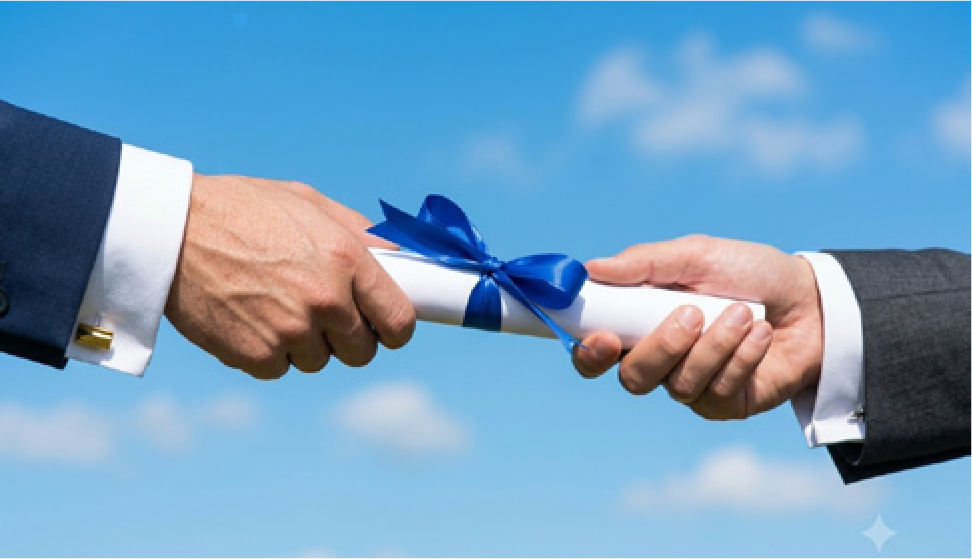
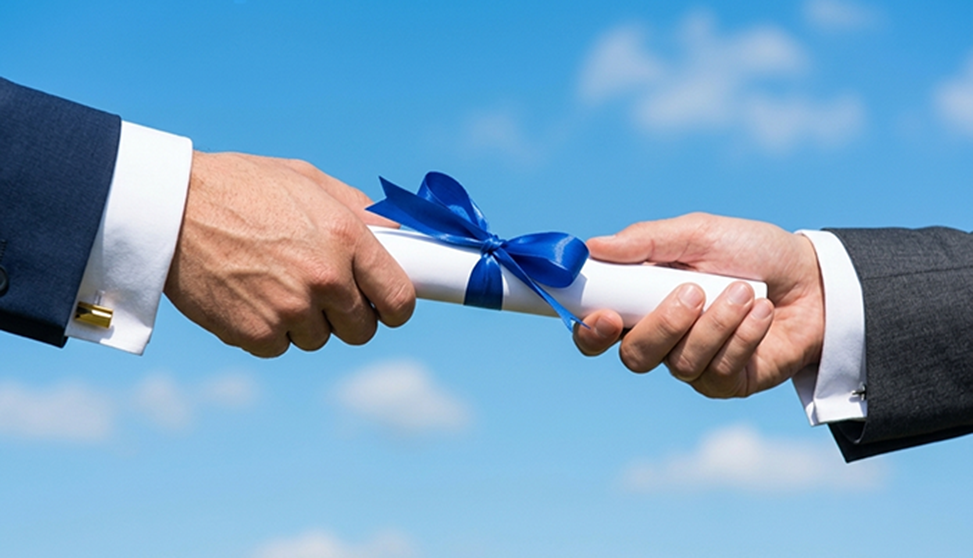
Update interview fonts and mobile sizes, newsletter links and layout
- board/interview: HsBombaram21 title font, larger body text
- board/news, on, replay: mobile layout and font-size adjustments
- newsletter: add button/footer links, keep WITH/NOTICE 2-column on mobile, use min-height instead of clipped fixed height

diff --git a/newsletter/newsletter.html b/newsletter/newsletter.html
@@ -16,6 +16,10 @@
       .col-r { padding-top: 24px !important; border-left: 0 !important }
       .mobile-footer, .mobile-footer td { display: block !important; width: 100% !important; text-align: left !important }
       .mobile-footer td { padding: 0 0 12px !important }
+      .with-notice-row > td { display: table-cell !important; width: 50% !important; vertical-align: top !important }
+      .with-notice-row .col-l { padding: 24px 10px 30px 0 !important }
+      .with-notice-row .col-r { padding: 24px 0 30px 10px !important; border-left: 1px solid #161616 !important }
+      .with-notice-desc { min-height: 80px !important }
     }
   </style>
 </head>
@@ -43,8 +47,10 @@
           <tr>
             <td class="mobile-pad" bgcolor="#ffffff" style="padding:28px 35px 40px;background:#ffffff;">
               <p style="margin:0 0 14px;"><img src="assets/letter-title-1.png" width="144" alt="3·1 PEOPLE" style="display:block;width:144px;height:auto;border:0;"></p>
-              <h1 style="margin:0 0 12px;color:#161616;font-family:'Pretendard Variable',Pretendard,'Apple SD Gothic Neo','Malgun Gothic',Arial,sans-serif;font-size:20px;font-weight:800;line-height:1.4;letter-spacing:-1px;">제67회 3·1문화상 예술상 수상자 김성녀 | 동국대학교 석좌교수</h1>
-              <p style="margin:0;color:#333333;font-size:12px;line-height:20px;letter-spacing:-.4px;">50년간 무대를 지켜온 배우 김성녀. 마당놀이와 창극을 통해 전통을 오늘의 예술로 되살리고, 자신만의 새로운 장르를 만들어온 그의 예술 여정을 만난다. 전통은 어떻게 살아 움직이는 예술이 되는가. 그리고 한 예술가가 다음 세대에 남기고 싶은 것은 무엇인가. 제67회 3·1문화상 예술상 수상자 김성녀의 이야기를 들어본다. <a href="#" style="color:#2f80ed;text-decoration:none;white-space:nowrap;">…더보기</a></p>
+              <a href="#" style="display:block;color:#333333;text-decoration:none;">
+                <h1 style="margin:0 0 12px;color:#161616;font-family:'Pretendard Variable',Pretendard,'Apple SD Gothic Neo','Malgun Gothic',Arial,sans-serif;font-size:20px;font-weight:800;line-height:1.4;letter-spacing:-1px;">제67회 3·1문화상 예술상 수상자 김성녀 | 동국대학교 석좌교수</h1>
+                <span style="display:block;margin:0;font-size:12px;line-height:20px;letter-spacing:-.4px;">50년간 무대를 지켜온 배우 김성녀. 마당놀이와 창극을 통해 전통을 오늘의 예술로 되살리고, 자신만의 새로운 장르를 만들어온 그의 예술 여정을 만난다. 전통은 어떻게 살아 움직이는 예술이 되는가. 그리고 한 예술가가 다음 세대에 남기고 싶은 것은 무엇인가. 제67회 3·1문화상 예술상 수상자 김성녀의 이야기를 들어본다. <span style="color:#2f80ed;white-space:nowrap;">…더보기</span></span>
+              </a>
             </td>
           </tr>
 
@@ -83,20 +89,20 @@
           <tr>
             <td class="mobile-pad" bgcolor="#ffffff" style="padding:0 35px;background:#ffffff;">
               <table role="presentation" width="100%" cellpadding="0" cellspacing="0" border="0" style="width:100%;border-top:1px solid #161616;border-bottom:1px solid #161616;border-collapse:collapse;">
-                <tr class="stack">
+                <tr class="with-notice-row">
                   <td class="col-l" width="50%" valign="top" style="width:50%;padding:40px 35px 43px 0;vertical-align:top;">
                     <p style="margin:0 0 14px;"><img src="assets/letter-title-5.png" width="144" alt="WITH 3·1" style="display:block;width:144px;height:auto;border:0;"></p>
                     <img src="assets/with-illustration.png" width="229" alt="편지를 보내는 일러스트" style="display:block;width:100%;height:auto;border:0;">
-                    <div style="min-height:72px;margin:16px 0 14px;color:#161616;font-size:18px;font-weight:800;line-height:26px;letter-spacing:-.9px;">with 3·1<br>여러분의 소식을 알려주세요!</div>
-                    <p style="min-height:62px;margin:0 0 27px;color:#333333;font-size:12px;line-height:20px;letter-spacing:-.4px;">3·1문화재단은 여러분의 반가운 소식과 근황을 기다립니다. 최근 활동이나 함께 나누고 싶은 소식이 있다면 자유롭게 알려주세요.</p>
-                    <a href="#" style="display:block;text-decoration:none;line-height:0;"><img src="assets/letter-btn-1.png" width="229" alt="내 소식 전하기" style="display:block;width:100%;height:auto;border:0;"></a>
+                    <div style="min-height:72px;margin:16px 0 6px;color:#161616;font-size:18px;font-weight:800;line-height:26px;letter-spacing:-.9px;">with 3·1<br>여러분의 소식을 알려주세요!</div>
+                    <p class="with-notice-desc" style="min-height:60px;margin:0 0 27px;color:#333333;font-size:12px;line-height:20px;letter-spacing:-.4px;">3·1문화재단은 여러분의 반가운 소식과 근황을 기다립니다. 최근 활동이나 함께 나누고 싶은 소식이 있다면 자유롭게 알려주세요.</p>
+                    <a href="https://naver.me/xZKpJOlI" style="display:block;text-decoration:none;line-height:0;"><img src="assets/letter-btn-1.png" width="229" alt="내 소식 전하기" style="display:block;width:100%;height:auto;border:0;"></a>
                   </td>
                   <td class="col-r" width="50%" valign="top" style="width:50%;padding:40px 0 43px 35px;border-left:1px solid #161616;vertical-align:top;">
                     <p style="margin:0 0 14px;"><img src="assets/letter-title-6.png" width="144" alt="NOTICE 3·1" style="display:block;width:144px;height:auto;border:0;"></p>
                     <img src="assets/notice-illustration.png" width="229" alt="선물 상자 일러스트" style="display:block;width:100%;height:auto;border:0;">
-                    <div style="min-height:72px;margin:16px 0 14px;color:#161616;font-size:18px;font-weight:800;line-height:26px;letter-spacing:-.9px;">뉴스레터를 받아보신 분들께<br>감사의 선물을 전합니다.</div>
-                    <p style="min-height:62px;margin:0 0 27px;color:#999999;font-size:12px;line-height:20px;letter-spacing:-.4px;">[수신자 전원 기프티콘 지급]</p>
-                    <a href="#" style="display:block;text-decoration:none;line-height:0;"><img src="assets/letter-btn-2.png" width="229" alt="선물 받아보기" style="display:block;width:100%;height:auto;border:0;"></a>
+                    <div style="min-height:72px;margin:16px 0 6px;color:#161616;font-size:18px;font-weight:800;line-height:26px;letter-spacing:-.9px;">뉴스레터를 받아보신 분들께<br>감사의 선물을 전합니다.</div>
+                    <p class="with-notice-desc" style="min-height:60px;margin:0 0 27px;color:#999999;font-size:12px;line-height:20px;letter-spacing:-.4px;">[수신자 전원 기프티콘 지급]</p>
+                    <a href="https://naver.me/Gfrk5btS" style="display:block;text-decoration:none;line-height:0;"><img src="assets/letter-btn-2.png" width="229" alt="선물 받아보기" style="display:block;width:100%;height:auto;border:0;"></a>
                   </td>
                 </tr>
               </table>
@@ -127,7 +133,7 @@
             <td class="mobile-pad" bgcolor="#d1d7c1" style="padding:50px 35px;background:#d1d7c1;color:#3f4438;font-size:12px;line-height:1.6;">
               <table role="presentation" class="mobile-footer" width="100%" cellpadding="0" cellspacing="0" border="0" style="width:100%;border-collapse:collapse;">
                 <tr>
-                  <td style="width:40%;vertical-align:middle;"><img src="assets/footer-logo.png" width="137" alt="(재) 3·1문화재단 The Samil Foundation" style="display:block;width:137px;height:auto;border:0;"></td>
+                  <td style="width:40%;vertical-align:middle;"><a href="https://www.31cf.or.kr/" style="display:inline-block;text-decoration:none;line-height:0;"><img src="assets/footer-logo.png" width="137" alt="(재) 3·1문화재단 The Samil Foundation" style="display:block;width:137px;height:auto;border:0;"></a></td>
                   <td align="right" style="vertical-align:middle;color:#3f4438;font-size:11px;line-height:1.7;">[03035] 서울시 종로구 자하문로 77 유남빌딩 5층<br><strong>전화</strong> 02-735-3132~3 &nbsp;<strong>팩스</strong> 02-735-3130 &nbsp;<strong>이메일</strong> 31cf@31cf.or.kr<br><a href="#" style="color:#3f4438;text-decoration:none;"><strong>수신거부</strong> Unsubscribe</a></td>
                 </tr>
               </table>

diff --git a/board/interview.html b/board/interview.html
@@ -7,7 +7,7 @@
   <style>
     @import url("https://cdn.jsdelivr.net/gh/orioncactus/pretendard@v1.3.9/dist/web/variable/pretendardvariable-dynamic-subset.min.css");
     @import url("https://cdn.jsdelivr.net/gh/fonts-archive/Paperlogy/Paperlogy.css");
-    @font-face{font-family:'HsBombaram20';src:url('https://cdn.jsdelivr.net/gh/projectnoonnu/noonfonts_one@1.0/HSBombaram.woff') format('woff');font-weight:normal;font-display:swap}
+    @font-face{font-family:'HsBombaram21';src:url('https://cdn.jsdelivr.net/gh/projectnoonnu/noonfonts_2302@1.0/HSBombaram21-Regular.woff2') format('woff2');font-weight:normal;font-display:swap}
     :root{--ink:#111;--olive:#8a9462;--line:#111;--pad:50px}
     *{box-sizing:border-box}
     html{background:#ecebe5}
@@ -25,10 +25,10 @@
     .hero{position:relative;overflow:hidden;color:#fff}
     .hero>img{width:100%;height:auto}
     .hero-copy{position:absolute;left:52px;right:40px;bottom:38px}
-    .hero-copy h1{margin:0;font-family:HsBombaram20,"Pretendard Variable",serif;font-weight:400;font-size:45px;line-height:1.28;letter-spacing:-.05em}
+    .hero-copy h1{margin:0;font-family:HsBombaram21,"Pretendard Variable",serif;font-weight:400;font-size:50px;line-height:1.28;letter-spacing:-.05em}
     .hero-copy p{margin:14px 0 0;font-size:24px;line-height:1.5;font-weight:400;letter-spacing:-.02em}
 
-    .intro{padding:34px var(--pad) 65px;font-size:16px;line-height:1.85;letter-spacing:-.03em}
+    .intro{padding:34px var(--pad) 65px;font-size:18px;line-height:1.8;letter-spacing:-.03em}
     .intro p{margin:0}
 
     /* Q&A */
@@ -36,8 +36,8 @@
     .qa+.qa,.qa+.qa-grid,.qa-grid+.qa,.qa-grid+.qa-grid{margin-top:90px}
     .qa-grid+.qa{margin-top:90px}
     .qmark{position:absolute;top:-22px;left:var(--pad);z-index:2;width:43px;height:43px;border:1px solid #8d9468;border-radius:50%;background:#fff;color:var(--olive);font-family:Georgia,serif;font-weight:700;font-size:20px;line-height:41px;text-align:center}
-    .qa h2{margin:0;font-size:22px;line-height:1.45;font-weight:800;letter-spacing:-.045em;word-break:keep-all}
-    .qa p{margin:0;font-size:16px;line-height:1.8;letter-spacing:-.03em;word-break:keep-all}
+    .qa h2{margin:0;font-size:22px;line-height:1.45;font-weight:700;letter-spacing:-.045em}
+    .qa p{margin:0;font-size:18px;line-height:1.8;letter-spacing:-.03em}
     .qa-body{padding:40px var(--pad) 0}
     .qa-body h2{margin-bottom:30px}
     .qa-body figure{margin:0 0 28px}
@@ -65,6 +65,8 @@
     .qa-grid.right .qmark{left:var(--pad)}
     .qa-grid h2{margin:2px 0 26px}
     .qa-grid .qa-copy{padding-top:50px}
+    .qa-grid h2{font-size:22px;line-height:1.45;font-weight:700;letter-spacing:-.045em}
+    .qa-grid p{margin:0;font-size:18px;line-height:1.8;letter-spacing:-.03em}
     .note{margin-top:20px!important;padding-left:.6em;text-indent:-.6em;color:#8a8a8a;font-size:12px!important;line-height:1.7!important}
 
     /* slider */
@@ -78,14 +80,14 @@
     .relay-card{position:relative;z-index:1;margin-top:0;display:grid;grid-template-columns:54% 1fr;gap:26px;align-items:end}
     .relay-card img{width:100%;height:auto;align-self:start}
     .relay-card>div{padding-bottom:12px}
-    .relay-card h3{margin:0 0 18px;font-size:22px;line-height:1.45;font-weight:800;letter-spacing:-.045em;word-break:keep-all}
+    .relay-card h3{margin:0 0 18px;font-size:24px;line-height:1.45;font-weight:700;letter-spacing:-.045em;word-break:keep-all}
     .relay-card p{margin:0;font-size:15px;line-height:1.85;letter-spacing:-.04em;word-break:keep-all}
 
     /* profile */
     .profile{padding:34px var(--pad) 40px;background:linear-gradient(90deg,#7f8d5a,#a0a09e);color:#fff}
     .profile-title{display:flex;align-items:center;margin:0 0 22px -14px}
     .profile-title img{width:30px;height:30px;position:relative;z-index:1;margin-right:-15px}
-    .profile-title h2{margin:0;padding:6px 22px;border:1px solid #fff;border-radius:22px;font-size:22px;line-height:1.3;font-weight:800;letter-spacing:-.04em;white-space:nowrap}
+    .profile-title h2{margin:0;padding:6px 22px;border:1px solid #fff;border-radius:22px;font-family:HsBombaram21,"Pretendard Variable",serif;font-size:22px;line-height:1.3;font-weight:400;letter-spacing:-.04em;white-space:nowrap}
     .profile-title:after{content:"";flex:1;height:1px;background:rgba(255,255,255,.85)}
     .profile p{margin:0 0 0 22px;font-size:14.5px;line-height:1.85;letter-spacing:-.04em;word-break:keep-all}
 
@@ -95,26 +97,29 @@
       .board-meta{right:16px;top:30px;height:30px;padding:0 11px;font-size:9px;border-radius:15px}
       .board-meta i{height:9px;margin:0 4px}
       .hero-copy{left:22px;right:16px;bottom:18px}
-      .hero-copy h1{font-size:26px}
+      .hero-copy h1{font-size:34px}
       .hero-copy p{margin-top:8px;font-size:13px}
-      .intro{padding:22px var(--pad) 36px;font-size:13px}
+      .intro{padding:22px var(--pad) 36px;font-size:18px;line-height:1.8}
       .qa+.qa,.qa+.qa-grid,.qa-grid+.qa,.qa-grid+.qa-grid{margin-top:50px}
       .qmark{width:34px;height:34px;top:-17px;font-size:16px;line-height:32px}
-      .qa h2{font-size:17px}
-      .qa p{font-size:14px}
+      .qa h2{font-size:22px}
+      .qa p{font-size:18px}
       .qa-body{padding-top:30px}
       .qa-body h2{margin-bottom:20px}
       .qa-grid.left,.qa-grid.right{grid-template-columns:1fr}
+      .qa-grid.left{border-bottom:0}
       .qa-grid.right>img{order:2}
       .qa-grid>img{height:auto}
       .qa-grid .qa-copy,.qa-grid.right .qa-copy{padding:36px var(--pad) 28px}
       .qa-grid .qmark,.qa-grid.right .qmark{left:var(--pad)}
+      .qa-grid h2{font-size:22px}
+      .qa-grid p{font-size:18px}
       .slide .arrow{width:16px;height:16px;margin-top:-8px}
       .slide .arrow.prev{left:22px}.slide .arrow.next{right:22px}
       .relay{padding:20px var(--pad) 36px;margin-top:60px;background-position:right -8px top -54px;background-size:160px auto}
-      .relay-card{grid-template-columns:1fr;gap:18px;margin-top:-10px}
+      .relay-card{grid-template-columns:1fr;gap:18px;margin-top:0;padding-top:20px}
       .relay-card>div{padding-bottom:0}
-      .relay-card h3{font-size:17px}
+      .relay-card h3{font-size:19px}
       .relay-card p{font-size:13px}
       .profile-title h2{font-size:17px}
       .profile p{margin-left:0;font-size:13px}

diff --git a/board/news.html b/board/news.html
@@ -36,6 +36,8 @@
     .stat h3{margin:0;font-size:21px;line-height:1.25;font-weight:600;letter-spacing:-.04em}
     .stat.tall img{width:127px;height:auto}
     .stat.tall p{margin:0;font-size:16px;line-height:1.3;font-weight:300;letter-spacing:-.04em;text-align:center}
+    .stat.tall .lead{display:flex;flex-direction:column;align-items:center;gap:12px;text-align:center}
+    .stat.tall .detail p{text-align:left}
     .stat b{font-weight:600}
     .stat.tall p b{font-size:23px}
     .stat-col{display:grid;gap:22px}
@@ -75,15 +77,17 @@
       .board-meta i{height:9px;margin:0 4px}
       .item{margin-top:50px}
       .board-header+.item{margin-top:28px}
-      .item-title{font-size:19px;margin:18px 0 16px}
+      .item-title{font-size:22px;margin:18px 0 16px}
       .item-title .num{flex-basis:38px}
-      .item p{font-size:14px;margin-top:16px}
+      .item p{font-size:18px;margin-top:16px}
       .stats{grid-template-columns:1fr;margin-top:28px;gap:14px}
-      .stat.tall{padding:26px 0 22px}
-      .stat.tall img{width:100px}
+      .stat.tall{display:grid;grid-template-columns:108px auto;justify-content:center;column-gap:12px;align-items:center;min-height:130px;padding:0;background:linear-gradient(90deg,var(--blue),var(--beige));text-align:left}
+      .stat.tall .lead img{width:50px}
+      .stat.tall .detail p{font-size:13px;text-align:left}
+      .stat.tall .detail p b{font-size:19px}
       .stat-col{gap:14px}
-      .stat.wide{grid-template-columns:108px 1fr;column-gap:12px;min-height:130px;padding-right:14px}
-      .stat.wide .detail p{font-size:13px}
+      .stat.wide{grid-template-columns:108px auto;justify-content:center;column-gap:12px;min-height:130px;padding-right:0}
+      .stat.wide .detail p{font-size:13px;text-align:left}
       .stat.wide .detail p b{font-size:19px}
       .stat.wide .lead.cap img{width:50px}.stat.wide .lead.bank img{width:38px}
       .stat h3{font-size:16px}
@@ -110,9 +114,8 @@
       <figure class="item-photo" style="margin:0"><img src="assets/news-01.jpg" alt="장학증서를 전달하는 장면"></figure>
       <div class="stats">
         <div class="stat tall">
-          <h3>장학생 선발</h3>
-          <img src="assets/news-vector-1.png" alt="">
-          <p>박사과정 장학생<br>최종 <b>37명</b> 선발</p>
+          <div class="lead"><h3>장학생 선발</h3><img src="assets/news-vector-1.png" alt=""></div>
+          <div class="detail"><p>박사과정 장학생<br>최종 <b>37명</b> 선발</p></div>
         </div>
         <div class="stat-col">
           <div class="stat wide">

diff --git a/board/on.html b/board/on.html
@@ -24,7 +24,7 @@
     .board-dongjeong article.story:nth-of-type(even) .story-meta{background:#d9dfc9}
     .board-dongjeong .story-copy{margin:0;font-size:18px;line-height:1.65;letter-spacing:-.04em}
     .board-dongjeong .footnote{margin:0;padding:24px var(--pad) 30px;background:#fff;color:#8a8a8a;font-size:17px;letter-spacing:-.04em;border-top:0}
-    @media screen and (max-width:600px){.board-dongjeong{--pad:22px}.board-dongjeong .board-header{height:92px;background-position:left top}.board-dongjeong .news-hero{padding-top:24px}.board-dongjeong .hero-card{height:170px;padding-bottom:30px}.board-dongjeong .hero-title{width:150px;font-size:20px}.board-dongjeong .news-hero+.story{padding-top:50px}.board-dongjeong .story{padding-top:26px;padding-bottom:32px}.board-dongjeong .story-heading{font-size:17px;margin-bottom:14px}.board-dongjeong .story-icon{flex-basis:26px;width:26px;height:26px}.board-dongjeong .story-meta{font-size:12px}.board-dongjeong .story-copy{font-size:14px;line-height:1.7}.board-dongjeong .footnote{font-size:12px}}
+@media screen and (max-width:600px){.board-dongjeong{--pad:22px}.board-dongjeong .board-header{height:92px;background-position:left top}.board-dongjeong .news-hero{padding-top:24px}.board-dongjeong .hero-card{height:170px;padding-bottom:30px}.board-dongjeong .hero-title{width:150px;font-size:20px}.board-dongjeong .news-hero+.story{padding-top:50px}.board-dongjeong .story{padding-top:26px;padding-bottom:32px}.board-dongjeong .story-heading{font-size:20px;margin-bottom:14px}.board-dongjeong .story-icon{flex-basis:26px;width:26px;height:26px}.board-dongjeong .story-meta{font-size:12px}.board-dongjeong .story-copy{font-size:18px;line-height:1.8}.board-dongjeong .footnote{font-size:12px}}
   </style>
 </head>
 <body>

diff --git a/board/replay.html b/board/replay.html
@@ -20,7 +20,7 @@
     .board-replay .article figure img{width:100%;height:auto}
     .board-replay .pair{display:flex}.board-replay .pair img{flex:1 1 50%;min-width:0;width:50%;height:316px;object-fit:cover}
     .board-replay .article figcaption{margin-top:9px;color:#8a8a8a;font-size:14px;line-height:1.5;letter-spacing:-.02em}
-    @media screen and (max-width:600px){.board-replay{--pad:22px}.board-replay .board-header{height:92px;background-position:left top}.board-replay .article{padding:26px var(--pad) 44px}.board-replay .article p{font-size:14px;line-height:1.7}.board-replay .pair img{height:160px}.board-replay .article h2{font-size:20px;margin-top:34px}.board-replay .article figcaption{font-size:11px}}
+@media screen and (max-width:600px){.board-replay{--pad:22px}.board-replay .board-header{height:92px;background-position:left top}.board-replay .article{padding:26px var(--pad) 44px}.board-replay .article p{font-size:18px;line-height:1.8}.board-replay .pair img{height:160px}.board-replay .article h2{font-size:20px;margin-top:34px}.board-replay .article figcaption{font-size:11px}}
   </style>
 </head>
 <body>
